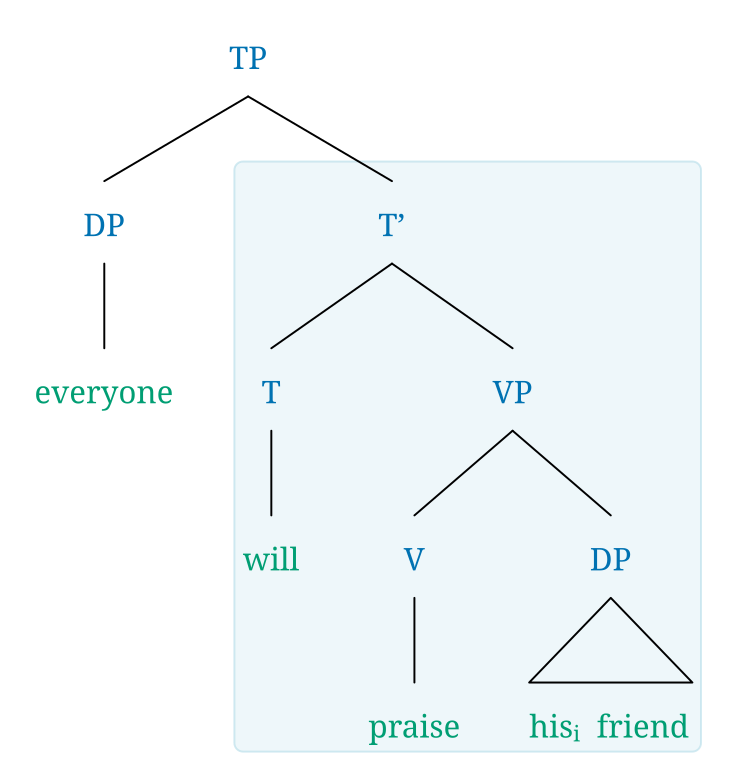
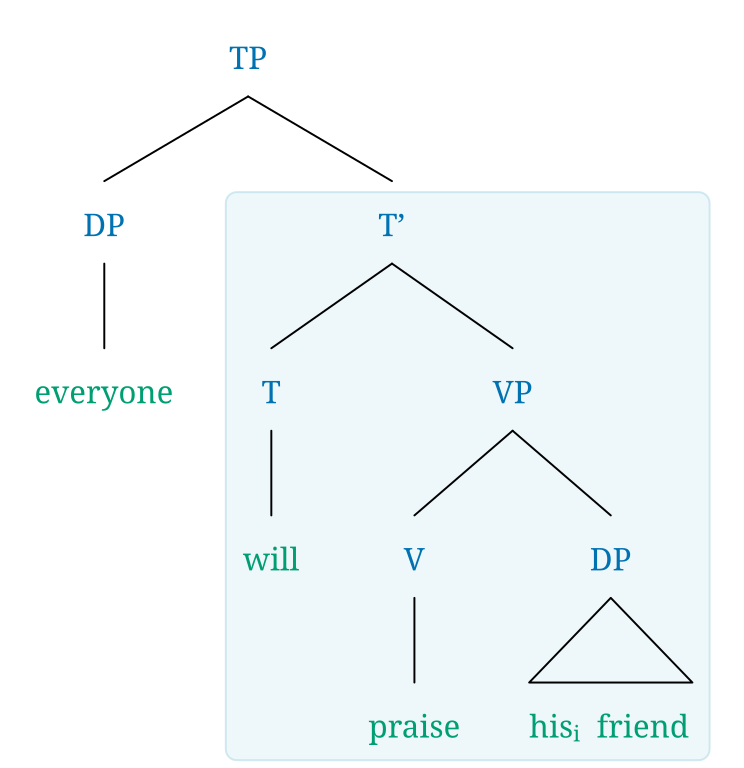
Release v1.6.1: refine region shade rendering
- Wrap the shaded subtree more cleanly: wider/balanced padding, enclosures
  (brackets/rectangles) kept inside the plane, parent connector stops short of
  the plane, consistent margin for root and non-root regions.
- Hug the glyphs (trim line-box leading above/below plain labels) so the plane
  is not left with excess empty space, especially at the bottom.
- Direction-aware: the connector-facing edge is the top in TTB and the left in
  LTR, with symmetric padding on the other sides (region shading works in both
  layouts).
- Add example 065 (nested/overlapping region shades); regenerate 064/065 assets.

Changed region(s): [[0.3091, 0.25, 0.9583, 1.0], [0.3091, 0.2188, 0.3401, 0.25]]

diff --git a/lib/rsyntaxtree/svg_graph.rb b/lib/rsyntaxtree/svg_graph.rb
@@ -142,21 +142,57 @@ module RSyntaxTree
     # Outer (shallower) regions are emitted first so deeper ones layer on
     # top; with low opacity the overlap reads as a darker nesting.
     def collect_region_shades
-      pad = @global[:h_gap_between_nodes] / 2
+      hctt = @global[:height_connector_to_text]
+      pad = @global[:h_gap_between_nodes]  # generous padding for the non-parent-facing edges
+      pad_parent = hctt / 2.0              # tighter margin on the parent-facing edge of the root
+      radius = hctt / 2.0
       stroke_width = @linewidth + LINE_SCALING
       half = stroke_width / 2.0
       @element_list.get_elements.each do |element|
         next unless element.region
 
-        b = subtree_bounds(element.id)
-        x = b[:left] - pad
-        y = b[:top] - pad
-        w = (b[:right] - b[:left]) + pad * 2
-        h = (b[:bottom] - b[:top]) + pad * 2
+        b = region_subtree_bounds(element.id)
+        left = b[:left] - pad
+        right = b[:right] + pad
+        top = b[:top] - pad
+        bottom = b[:bottom] + pad
+
+        # The edge facing the parent is handled specially so the incoming
+        # connector neither overlaps nor touches the plane. That edge is the
+        # TOP in top-to-bottom layout and the LEFT in left-to-right layout; the
+        # other edges keep the generous padding. For a non-root node the edge
+        # is placed midway between the connector anchor and the content edge
+        # (even gap on both sides); the tree root has no incoming connector, so
+        # it just gets a tighter-but-consistent margin there.
+        is_root = element.parent.zero?
+        if @direction == "ltr"
+          anchor = element.horizontal_indent - hctt
+          left = if is_root
+                   b[:left] - pad_parent
+                 elsif anchor < b[:left]
+                   (b[:left] + anchor) / 2.0
+                 else
+                   left
+                 end
+        else
+          anchor = element.vertical_indent + hctt / 2.0
+          top = if is_root
+                  b[:top] - pad_parent
+                elsif anchor < b[:top]
+                  (b[:top] + anchor) / 2.0
+                else
+                  top
+                end
+        end
+
+        x = left
+        y = top
+        w = right - left
+        h = bottom - top
         # An explicit shade color is always honored (consistent with the
         # @color: node-text color); bare '%' falls back to gray.
         color = element.region_color || REGION_DEFAULT_COLOR
-        @region_shades << "<rect x='#{x}' y='#{y}' width='#{w}' height='#{h}' rx='#{pad}' ry='#{pad}' " \
+        @region_shades << "<rect x='#{x}' y='#{y}' width='#{w}' height='#{h}' rx='#{radius}' ry='#{radius}' " \
                           "fill='#{color}' fill-opacity='#{REGION_FILL_OPACITY}' " \
                           "stroke='#{color}' stroke-opacity='#{REGION_STROKE_OPACITY}' stroke-width='#{stroke_width}' />\n"
 
@@ -168,6 +204,49 @@ module RSyntaxTree
         rb[:max_x] = x + w + half if x + w + half > rb[:max_x]
         rb[:max_y] = y + h + half if y + h + half > rb[:max_y]
       end
+    end
+
+    # Visual bounding box of a single element as actually drawn: the label /
+    # enclosure box (which starts hctt*3/4 below vertical_indent, i.e. below the
+    # connector gap) widened to include any enclosure bracket/rectangle that is
+    # painted beyond the content width.
+    def element_visual_box(el)
+      hctt = @global[:height_connector_to_text]
+      box_top = el.vertical_indent + hctt * 3 / 4 # bc[:y]: line-height / enclosure box top
+      box_bottom = box_top + el.content_height
+      left = el.horizontal_indent
+      right = el.horizontal_indent + el.content_width
+      if [:brackets, :rectangle, :brectangle].include?(el.enclosure)
+        ext = @global[:h_gap_between_nodes] / 2 + (@linewidth + BLINE_SCALING)
+        left -= ext
+        right += ext
+        sw = @linewidth + BLINE_SCALING
+        top = box_top - sw
+        bottom = box_bottom + sw
+      else
+        # No enclosure box is painted, so hug the actual glyphs rather than the
+        # taller line-height box: the line box carries ~hctt*3/4 of leading both
+        # above the cap top and below the baseline, which would otherwise leave
+        # too much empty space above and below a plain label.
+        top = el.vertical_indent + hctt * 3 / 2
+        bottom = box_bottom - hctt * 3 / 4
+      end
+      { left: left, top: top, right: right, bottom: bottom }
+    end
+
+    # Union of element_visual_box over the subtree rooted at +id+, in final
+    # drawing coordinates. Used to size region shades so the whole subtree
+    # (labels, enclosures, brackets) sits inside the plane.
+    def region_subtree_bounds(id)
+      b = element_visual_box(@element_list.get_id(id))
+      @element_list.get_id(id).children.each do |c|
+        cb = region_subtree_bounds(c)
+        b[:left] = cb[:left] if cb[:left] < b[:left]
+        b[:right] = cb[:right] if cb[:right] > b[:right]
+        b[:top] = cb[:top] if cb[:top] < b[:top]
+        b[:bottom] = cb[:bottom] if cb[:bottom] > b[:bottom]
+      end
+      b
     end
 
     def draw_a_path(s_x, s_y, t_x, t_y, target_arrow = :none)

diff --git a/lib/rsyntaxtree/base_graph.rb b/lib/rsyntaxtree/base_graph.rb
@@ -236,26 +236,6 @@ module RSyntaxTree
       end
     end
 
-    # Bounding box of the subtree rooted at +id+, expressed in final drawing
-    # coordinates (horizontal_indent / vertical_indent / content_*). Works for
-    # both TTB and LTR because it runs after layout (and finalize_ltr) has
-    # placed every element. Used to draw whole-subtree region shades.
-    def subtree_bounds(id = 1)
-      el = @element_list.get_id(id)
-      left = el.horizontal_indent
-      right = el.horizontal_indent + el.content_width
-      top = el.vertical_indent
-      bottom = el.vertical_indent + el.content_height
-      el.children.each do |c|
-        cb = subtree_bounds(c)
-        left = cb[:left] if cb[:left] < left
-        right = cb[:right] if cb[:right] > right
-        top = cb[:top] if cb[:top] < top
-        bottom = cb[:bottom] if cb[:bottom] > bottom
-      end
-      { left: left, right: right, top: top, bottom: bottom }
-    end
-
     def get_leftmost(id = 1)
       target = @element_list.get_id(id)
       target_indent = target.horizontal_indent

diff --git a/lib/rsyntaxtree/version.rb b/lib/rsyntaxtree/version.rb
@@ -1,5 +1,5 @@
 # frozen_string_literal: true
 
 module RSyntaxTree
-  VERSION = "1.6.0"
+  VERSION = "1.6.1"
 end

diff --git a/docs/_examples/065.md b/docs/_examples/065.md
@@ -1,0 +1,22 @@
+---
+name: "065"
+caption: "Nested region shades (overlapping domains)"
+category: "Generative Grammar"
+color: "off"
+polyline: "off"
+symmetrization: "off"
+connector: "auto"
+connector_height: "2.0"
+linewidth: "1"
+hide_default_connectors: "off"
+font: "Noto Serif"
+---
+```
+[%S
+  [DP everyone]
+  [%VP
+    [V loves]
+    [%NP Mary]
+  ]
+]
+```

diff --git a/CHANGELOG.md b/CHANGELOG.md
@@ -1,5 +1,19 @@
 # Changelog
 
+## [1.6.1] - 2026-06
+
+### Improved
+- Region shade rendering wraps the subtree more cleanly: wider, balanced
+  padding; bracket/rectangle enclosures are kept inside the plane; the incoming
+  parent connector stops just short of the plane (no overlap or touching); and
+  the margin is consistent between root and non-root regions. Works in both
+  top-to-bottom and left-to-right layouts (the connector-facing edge is the top
+  in TTB and the left in LTR, with symmetric padding on the other sides).
+
+### Added
+- Example 065: nested (overlapping) region shades, shown as progressively
+  darker gray.
+
 ## [1.6.0] - 2026-06
 
 ### Added